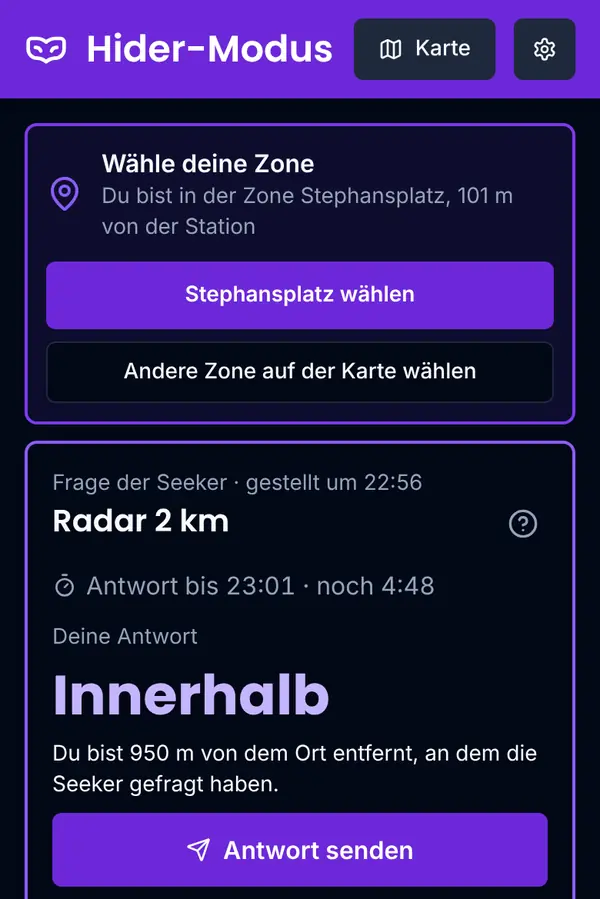
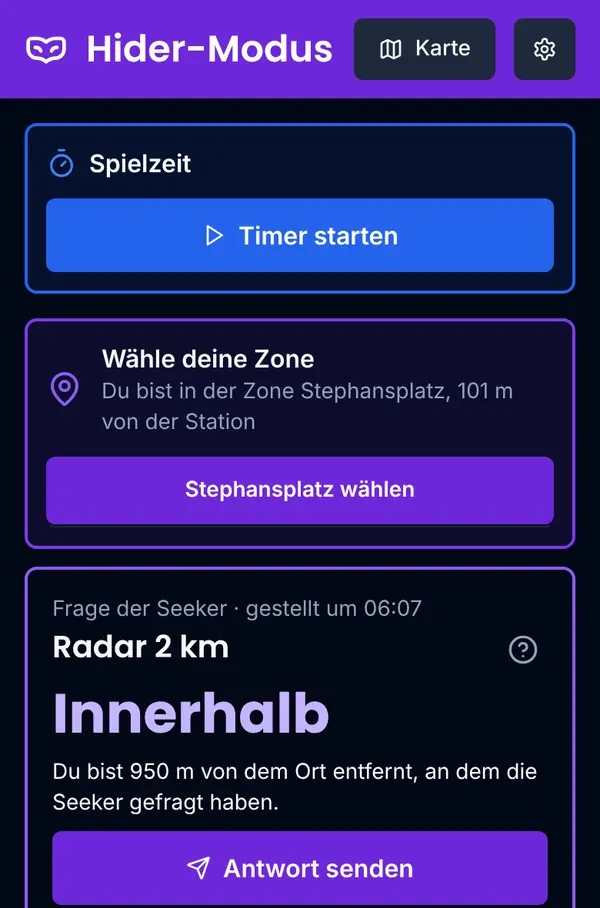
Rules: catch up with stage 19
House rules and cards now match the app after stage 19: 19 measuring
cards without the high-speed train line, named places only, mountains
are named peaks of at least 400 m, the answer clock runs from "Send to
hider", the thermometer's "Tell the hider" and at-least distance, and the
game timer (start, pause for late answers and Move, found). The quick
guide's hider and map pictures show the timer.

Claude-Session: https://claude.ai/code/session_01RvuLi91qh883AfDW9CDbYq

diff --git a/src/maps/rules.ts b/src/maps/rules.ts
@@ -54,8 +54,8 @@ type CardRule = {
 };
 
 const placeCounts = (de: string, en: string): Text => ({
-    de: `Alles, was in OpenStreetMap als ${de} eingetragen ist, so wie es die App zeigt. Gemessen wird zum Punkt des Orts, nicht zu seinem Rand.`,
-    en: `Anything mapped as ${en} in OpenStreetMap, as the app shows it. Distances go to the place's point, not to its edge.`,
+    de: `Alles mit Namen, was in OpenStreetMap als ${de} eingetragen ist, so wie es die App zeigt. Gemessen wird zum Punkt des Orts, nicht zu seinem Rand.`,
+    en: `Anything with a name mapped as ${en} in OpenStreetMap, as the app shows it. Distances go to the place's point, not to its edge.`,
 });
 
 /** Keyed by the card's id in deck.ts; cards in both decks share one entry. */
@@ -162,8 +162,8 @@ const CARD_RULES: Record<string, CardRule> = {
             en: "Compared to me, are you closer to or further from a mountain?",
         },
         counts: {
-            de: "Jeder Gipfel, der in OpenStreetMap als Gipfel eingetragen ist. Gemessen wird zum Gipfelpunkt.",
-            en: "Any summit mapped as a peak in OpenStreetMap. Distances go to the summit's point.",
+            de: "Das Rulebook nimmt, was die Karten-App als Berg zeigt. Bei uns zählen Gipfel mit Namen ab 400 m Seehöhe, niedrigere Hügel nicht. Gemessen wird zum Gipfelpunkt.",
+            en: "The rule book takes whatever the map app shows as a mountain. For us, named peaks of at least 400 m count, lower hills don't. Distances go to the summit's point.",
         },
     },
     landmass: {
@@ -190,8 +190,8 @@ const CARD_RULES: Record<string, CardRule> = {
             en: "Compared to me, are you closer to or further from a park?",
         },
         counts: {
-            de: "Jeder Park, der in OpenStreetMap als Park eingetragen ist, so wie es die App zeigt. Gemessen wird zum Punkt des Parks, nicht zu seinem Rand. Das wirkt manchmal seltsam: Wer am Rand eines großen Parks steht, ist vielleicht näher am Punkt eines kleinen Parks daneben. Das Rulebook bleibt trotzdem bei dieser Regel, weil sie eindeutig ist.",
-            en: "Any park mapped as a park in OpenStreetMap, as the app shows it. Distances go to the park's point, not to its edge. That can feel odd: at the edge of a big park, the point of a small park nearby may be closer. The rule book sticks with this rule anyway, because it's clear-cut.",
+            de: "Jeder Park mit Namen, der in OpenStreetMap als Park eingetragen ist, so wie es die App zeigt; Grünflächen ohne Namen zählen nicht. Gemessen wird zum Punkt des Parks, nicht zu seinem Rand. Das wirkt manchmal seltsam: Wer am Rand eines großen Parks steht, ist vielleicht näher am Punkt eines kleinen Parks daneben. Das Rulebook bleibt trotzdem bei dieser Regel, weil sie eindeutig ist.",
+            en: "Any park with a name mapped as a park in OpenStreetMap, as the app shows it; green spaces without a name don't count. Distances go to the park's point, not to its edge. That can feel odd: at the edge of a big park, the point of a small park nearby may be closer. The rule book sticks with this rule anyway, because it's clear-cut.",
         },
     },
     "amusement-park": {
@@ -295,18 +295,8 @@ const CARD_RULES: Record<string, CardRule> = {
             en: "Compared to me, are you closer to or further from a foreign consulate?",
         },
         counts: {
-            de: "Alles, was in OpenStreetMap als Konsulat eingetragen ist; Botschaften zählen nicht. Laut Rulebook zählen auch Honorarkonsulate nicht. Die App unterscheidet sie nicht, im Zweifel klären das die Seeker beim Fragen.",
-            en: "Anything mapped as a consulate in OpenStreetMap; embassies don't count. By the rule book, honorary consulates don't count either. The app doesn't tell them apart, so when in doubt the seekers clarify when asking.",
-        },
-    },
-    "high-speed": {
-        measuring: {
-            de: "Im Vergleich zu mir: Bist du näher an einer Schnellfahrstrecke oder weiter weg?",
-            en: "Compared to me, are you closer to or further from a high-speed train line?",
-        },
-        counts: {
-            de: "Es gilt die Definition vor Ort, sonst die der EU: neu gebaute Strecken für mindestens 250 km/h und ausgebaute für etwa 200 km/h. Die App nimmt die Strecken, die in OpenStreetMap als Schnellfahrstrecke markiert sind.",
-            en: "Use the local definition, otherwise the EU's: newly built lines for at least 250 km/h and upgraded lines for about 200 km/h. The app takes the lines marked as high-speed in OpenStreetMap.",
+            de: "Alles mit Namen, was in OpenStreetMap als Konsulat eingetragen ist; Botschaften zählen nicht. Laut Rulebook zählen auch Honorarkonsulate nicht. Die App unterscheidet sie nicht, im Zweifel klären das die Seeker beim Fragen.",
+            en: "Anything with a name mapped as a consulate in OpenStreetMap; embassies don't count. By the rule book, honorary consulates don't count either. The app doesn't tell them apart, so when in doubt the seekers clarify when asking.",
         },
     },
     "rail-station": {
@@ -486,16 +476,16 @@ export const RULE_SECTIONS: RuleSection[] = [
                         en: "**Hiding zones:** U-Bahn stations only, 500 m radius (rule book: 400 m). The app shows all 99 zones.",
                     },
                     {
-                        de: "**Versteckphase:** 30 Minuten.",
-                        en: "**Hiding period:** 30 minutes.",
+                        de: "**Versteckphase:** 30 Minuten. Danach zählt die Versteckzeit, bis der Hider gefunden ist; die App misst beides mit {startTimer}.",
+                        en: "**Hiding period:** 30 minutes. After that, the hiding time runs until the hider is found; the app times both with {startTimer}.",
                     },
                     {
-                        de: "**Antwortzeit:** 5 Minuten, bei Fotos 10 Minuten, ab dem Moment, in dem die Seeker fragen.",
-                        en: "**Time to answer:** 5 minutes, 10 for photos, from the moment the seekers ask.",
+                        de: "**Antwortzeit:** 5 Minuten, bei Fotos 10 Minuten, ab dem Moment, in dem die Seeker die Frage mit {sendToHider} schicken.",
+                        en: "**Time to answer:** 5 minutes, 10 for photos, from the moment the seekers send the question with {sendToHider}.",
                     },
                     {
-                        de: "**Fragen:** alle 20 Matching- und 20 Measuring-Fragen, alle Radar-Fragen, die Thermometer 1 km und 5 km und die 6 Foto-Fragen für Small. Keine Tentakel.",
-                        en: "**Questions:** all 20 matching and 20 measuring questions, every radar, the 1 km and 5 km thermometers and the 6 photo questions for Small. No tentacles.",
+                        de: "**Fragen:** alle 20 Matching- und 19 Measuring-Fragen (ohne Schnellfahrstrecke), alle Radar-Fragen, die Thermometer 1 km und 5 km und die 6 Foto-Fragen für Small. Keine Tentakel.",
+                        en: "**Questions:** all 20 matching and 19 measuring questions (no high-speed train line), every radar, the 1 km and 5 km thermometers and the 6 photo questions for Small. No tentacles.",
                     },
                     {
                         de: "**Alles metrisch:** Radar 500 m, 1, 2, 5, 10, 15, 40, 80 und 160 km, dazu eine frei gewählte Distanz.",
@@ -504,6 +494,10 @@ export const RULE_SECTIONS: RuleSection[] = [
                     {
                         de: "**Eine Karte für alle:** Das Rulebook verlangt, dass alle dieselbe Karten-App verwenden. Bei uns ist das diese App mit den Daten von OpenStreetMap. Was als Museum, Park oder Gewässer zählt, zeigt der Ebenen-Knopf auf der Karte.",
                         en: "**One map for everyone:** the rule book wants all players to use the same map app. For us, that's this app with OpenStreetMap data. What counts as a museum, park or body of water, the layers button on the map shows.",
+                    },
+                    {
+                        de: "**Nur Orte mit Namen:** Parks, Museen, Zoos und alle anderen Orte zählen nur, wenn sie einen Namen haben; eine namenlose Grünfläche ist kein Park. Ein Berg ist ein Gipfel mit Namen ab 400 m Seehöhe.",
+                        en: "**Named places only:** parks, museums, zoos and every other place count only if they have a name; an unnamed patch of green is no park. A mountain is a named peak of at least 400 m.",
                     },
                     {
                         de: "**Stationsnamen:** der deutsche Name, wie er auf dem Schild steht.",
@@ -541,6 +535,10 @@ export const RULE_SECTIONS: RuleSection[] = [
                     {
                         de: "**Bundesland:** Im Spielgebiet ist alles Wien, die Matching-Frage ist also immer Ja. Die Measuring-Frage misst zur Stadtgrenze.",
                         en: "**Bundesland:** everything in the game area is Vienna, so the matching question is always yes. The measuring question measures to the city limits.",
+                    },
+                    {
+                        de: "**Schnellfahrstrecke:** Wien hat nur die Neue Westbahn am Stadtrand, deshalb ist die Karte bei uns nicht im Spiel.",
+                        en: "**High-speed train line:** Vienna only has the Neue Westbahn at the edge of the city, so this card isn't in our game.",
                     },
                     {
                         de: "**Gemeindebezirk oder Katastralgemeinde?** Wien hat 23 Gemeindebezirke und 89 Katastralgemeinden. In den inneren Bezirken ist der Bezirk meist genau eine Katastralgemeinde, weiter draußen besteht er aus mehreren; dort grenzt die Katastralgemeinde stärker ein.",
@@ -677,8 +675,8 @@ export const RULE_SECTIONS: RuleSection[] = [
                 en: "Until the endgame, the hider can move freely within the zone: shop, eat, go for a walk. They mustn't leave it until the round is over.",
             },
             {
-                de: "**In der App:** Der Hider wählt seine Zone auf dem Hider-Bildschirm oder tippt sie auf der Karte an und wählt {chooseZone}. Verlässt er sie, warnt ihn die App.",
-                en: "**In the app:** the hider chooses their zone on the hider screen, or taps it on the map and chooses {chooseZone}. If they leave it, the app warns them.",
+                de: "**In der App:** Zu Beginn der Versteckphase tippt ihr {startTimer}. Die Uhr steht oben auf dem Hider-Bildschirm und oben links auf der Karte; sie zählt die 30 Minuten herunter und danach die Versteckzeit hoch. Der Hider wählt seine Zone auf dem Hider-Bildschirm oder tippt sie auf der Karte an und wählt {chooseZone}. Verlässt er sie, warnt ihn die App.",
+                en: "**In the app:** when the hiding period begins, tap {startTimer}. The clock sits at the top of the hider screen and at the top left of the map; it counts down the 30 minutes, then counts up the hiding time. The hider chooses their zone on the hider screen, or taps it on the map and chooses {chooseZone}. If they leave it, the app warns them.",
             },
             {
                 de: "**Tipps für den Hider:** Die Wahl der Zone ist die wichtigste Entscheidung der Runde. Abgelegene Zonen sind schwerer zu erraten, aber haben die Seeker sie einmal eingegrenzt, gibt es dort wenige Stationen. In dichten Gegenden wird es kompliziert, dafür kommen die Seeker schnell überall hin. Manche Foto-Fragen verlangen, schnell an eine bestimmte Stelle der Zone zu kommen; solche Fotos kannst du vorher machen. Und such dir rechtzeitig einen guten Platz für das Endgame.",
@@ -697,8 +695,8 @@ export const RULE_SECTIONS: RuleSection[] = [
             {
                 list: [
                     {
-                        de: "Der Hider antwortet ehrlich, innerhalb von **5 Minuten**, bei Fotos **10 Minuten** (Large 20).",
-                        en: "The hider answers truthfully, within **5 minutes**, **10 minutes** for photos (Large 20).",
+                        de: "Der Hider antwortet ehrlich, innerhalb von **5 Minuten**, bei Fotos **10 Minuten** (Large 20). Die Zeit läuft, sobald die Frage gestellt ist, bei uns ab {sendToHider}.",
+                        en: "The hider answers truthfully, within **5 minutes**, **10 minutes** for photos (Large 20). The time runs from when the question is asked, for us from {sendToHider}.",
                     },
                     {
                         de: "Zum Antworten darf er das Internet benutzen, aber kein Google Street View oder Ähnliches.",
@@ -709,8 +707,8 @@ export const RULE_SECTIONS: RuleSection[] = [
                         en: "After each answer, the hider draws cards from the hider deck; how many is given for each category.",
                     },
                     {
-                        de: "Antwortet er zu spät, bleibt seine Versteckzeit stehen, bis er antwortet, und er bekommt für diese Frage keine Karten. Er muss sich aber ernsthaft bemühen, rechtzeitig zu antworten.",
-                        en: "If they answer late, their hiding time stops until they answer, and they get no cards for that question. They must make a real effort to answer in time, though.",
+                        de: "Antwortet er zu spät, bleibt seine Versteckzeit stehen, bis er antwortet, und er bekommt für diese Frage keine Karten. Er muss sich aber ernsthaft bemühen, rechtzeitig zu antworten. In der App tippt er dafür {pause} auf der Spielzeit-Uhr und danach {resume}.",
+                        en: "If they answer late, their hiding time stops until they answer, and they get no cards for that question. They must make a real effort to answer in time, though. In the app, they tap {pause} on the game timer, then {resume}.",
                     },
                     {
                         de: "Jede Frage gibt es nur einmal. Ein zweites Mal geht nur zum doppelten Preis: Der Hider zieht dann zweimal, also etwa zweimal 3 Karten und behält je 1, nicht 6 und behält 2. Beim dritten Mal dreimal, und so weiter.",
@@ -727,12 +725,12 @@ export const RULE_SECTIONS: RuleSection[] = [
                 ],
             },
             {
-                de: "**Was als Ort zählt:** Das Rulebook rechnet mit den Symbolen in Google Maps. Bei uns zählt, was in OpenStreetMap eingetragen ist, so wie es die App zeigt; so schauen Hider und Seeker in dieselbe Karte. Gemessen wird zum Punkt des Orts, nicht zu seinem Rand.",
-                en: "**What counts as a place:** the rule book goes by the icons in Google Maps. For us, what's in OpenStreetMap counts, as the app shows it, so hider and seekers look at the same map. Distances go to the place's point, not to its edge.",
+                de: "**Was als Ort zählt:** Das Rulebook rechnet mit den Symbolen in Google Maps. Bei uns zählt, was in OpenStreetMap eingetragen ist und einen Namen hat, so wie es die App zeigt; so schauen Hider und Seeker in dieselbe Karte. Gemessen wird zum Punkt des Orts, nicht zu seinem Rand.",
+                en: "**What counts as a place:** the rule book goes by the icons in Google Maps. For us, what's in OpenStreetMap and has a name counts, as the app shows it, so hider and seekers look at the same map. Distances go to the place's point, not to its edge.",
             },
             {
-                de: "**In der App:** {ask} → Karte wählen. Die Frage nimmt deinen Standort und zeigt das Nächste, etwa das nächste Museum. Mit {sendToHider} geht sie als Link in den Chat. Kommt die Antwort, tippst du sie auf der Frage ein; erst dann ändert sich die Karte.",
-                en: "**In the app:** {ask} → pick a card. The question takes your location and shows what's nearest, like the nearest museum. {sendToHider} sends it to the chat as a link. When the answer comes, enter it on the question; only then does the map change.",
+                de: "**In der App:** {ask} → Karte wählen. Die Frage nimmt deinen Standort und zeigt das Nächste, etwa das nächste Museum. Mit {sendToHider} geht sie als Link in den Chat, ab dann läuft die Uhr des Hiders. Kommt die Antwort, tippst du sie auf der Frage ein; erst dann ändert sich die Karte.",
+                en: "**In the app:** {ask} → pick a card. The question takes your location and shows what's nearest, like the nearest museum. {sendToHider} sends it to the chat as a link, and the hider's clock starts. When the answer comes, enter it on the question; only then does the map change.",
             },
         ],
     },
@@ -797,16 +795,16 @@ export const RULE_SECTIONS: RuleSection[] = [
                 en: "“After traveling ___, am I hotter or colder?” Hotter means closer to the hider than at the start. The hider answers **hotter** or **colder**, within 5 minutes. Then they **draw 2 cards and keep 1**.",
             },
             {
-                de: "Am Start sagen die Seeker dem Hider, dass sie ein Thermometer beginnen, und schicken ihren Standort. Nach der Strecke (Luftlinie, bei uns **1 km** oder **5 km**) schicken sie den neuen Standort. Verglichen wird mit dem Ort, an dem der Hider beim Antworten ist.",
-                en: "At the start, the seekers tell the hider they're starting a thermometer and send their location. After the distance (as the crow flies, **1 km** or **5 km** for us), they send their new location. Both are compared with where the hider is when answering.",
+                de: "Am Start sagen die Seeker dem Hider, dass sie ein Thermometer beginnen, und schicken ihren Standort. Dann fahren sie mindestens die Strecke der Karte, gemessen in Luftlinie (bei uns **1 km** oder **5 km**); weiter ist erlaubt, kürzer nicht. Am Ende schicken sie den neuen Standort. Verglichen wird mit dem Ort, an dem der Hider beim Antworten ist.",
+                en: "At the start, the seekers tell the hider they're starting a thermometer and send their location. Then they travel at least the card's distance, measured in a straight line (**1 km** or **5 km** for us); further is fine, shorter isn't. At the end, they send their new location. Both are compared with where the hider is when answering.",
             },
             {
                 de: "**Strecken je nach Spielgröße:** Small 800 m und 5 km, Medium zusätzlich 16 km, Large zusätzlich 80 km. Bei uns 1 km und 5 km.",
                 en: "**Distances by game size:** Small 800 m and 5 km, Medium adds 16 km, Large adds 80 km. 1 km and 5 km for us.",
             },
             {
-                de: "**In der App:** {ask} → Thermometer → Start. Die App misst mit und meldet sich, wenn die Strecke geschafft ist.",
-                en: "**In the app:** {ask} → thermometer → start. The app keeps track and tells you when you've covered the distance.",
+                de: "**In der App:** {ask} → Thermometer → Start. {tellHider} schickt dem Hider Startzeit und Standort als Kartenlink. Die App misst mit und meldet sich, wenn die Strecke geschafft ist; die Frage zeigt die gefahrene Luftlinie und warnt rot, wenn sie zu kurz ist.",
+                en: "**In the app:** {ask} → thermometer → start. {tellHider} sends the hider your start time and location as a map link. The app keeps track and tells you when you've covered the distance; the question shows the straight-line distance traveled and warns in red if it's too short.",
             },
             {
                 de: "Gut, um zu sehen, ob ihr in die richtige Richtung fahrt.",
@@ -1009,8 +1007,8 @@ export const RULE_SECTIONS: RuleSection[] = [
                         },
                     ),
                     powerup("move", "Move", "Umziehen", 1, {
-                        de: "Der Hider bekommt Zeit, wie viel steht je nach Spielgröße auf der Karte, um eine neue Zone an einer anderen Station zu beziehen, nur mit erlaubten Öffis. So lange stehen die Seeker still und fragen nicht, und seine Versteckzeit läuft nicht weiter. Beim Spielen legt er sofort alle Karten auf der Hand ab und verrät den Seekern seine bisherige Station. Nicht im Endgame.",
-                        en: "The hider gets time, as much as the card gives for the game size, to set up a new zone at another station, using only allowed transit. Meanwhile the seekers stay put and don't ask, and the hiding time doesn't run. When playing it, the hider discards their whole hand right away and tells the seekers their old station. Not during the endgame.",
+                        de: "Der Hider bekommt Zeit, wie viel steht je nach Spielgröße auf der Karte, um eine neue Zone an einer anderen Station zu beziehen, nur mit erlaubten Öffis. So lange stehen die Seeker still und fragen nicht, und seine Versteckzeit läuft nicht weiter (in der App: {pause} auf der Spielzeit-Uhr). Beim Spielen legt er sofort alle Karten auf der Hand ab und verrät den Seekern seine bisherige Station. Nicht im Endgame.",
+                        en: "The hider gets time, as much as the card gives for the game size, to set up a new zone at another station, using only allowed transit. Meanwhile the seekers stay put and don't ask, and the hiding time doesn't run (in the app: {pause} on the game timer). When playing it, the hider discards their whole hand right away and tells the seekers their old station. Not during the endgame.",
                     }),
                 ],
             },
@@ -1488,8 +1486,8 @@ export const RULE_SECTIONS: RuleSection[] = [
                 en: "The next hider gets 10 minutes to get ready: they take over the hider deck and turn off their live location. The new round starts where the previous hider was found.",
             },
             {
-                de: "**In der App:** Zahnrad → {newGame}, jeder mit seiner neuen Rolle.",
-                en: "**In the app:** gear → {newGame}, everyone with their new role.",
+                de: "**In der App:** {found} auf der Spielzeit-Uhr stoppt die Versteckzeit; die Zeitbonus-Karten auf der Hand rechnet ihr von Hand dazu. Danach Zahnrad → {newGame}, jeder mit seiner neuen Rolle.",
+                en: "**In the app:** {found} on the game timer stops the hiding time; add the time bonus cards in hand yourselves. Then gear → {newGame}, everyone with their new role.",
             },
         ],
     },
@@ -1665,8 +1663,8 @@ export const GUIDE_SLIDES: { id: string; title: Text; text: Text }[] = [
         id: "hider",
         title: { de: "Als Hider", en: "As the hider" },
         text: {
-            de: "Wähle zuerst auf dem Hider-Bildschirm deine Zone, oder tippe sie auf der Karte an und wähle {chooseZone}. Fragen kommen als Link: Die App rechnet die Antwort an deinem Standort aus, und du schickst sie mit {sendAnswer} in den Chat. Die Uhr zeigt, wie viel Zeit dir bleibt.",
-            en: "First choose your zone on the hider screen, or tap it on the map and choose {chooseZone}. Questions arrive as links: the app works out the answer at your location, and {sendAnswer} sends it to the chat. The clock shows how much time you have left.",
+            de: "Tippe zu Beginn auf {startTimer} und wähle deine Zone auf dem Hider-Bildschirm, oder tippe sie auf der Karte an und wähle {chooseZone}. Fragen kommen als Link: Die App rechnet die Antwort an deinem Standort aus, und du schickst sie mit {sendAnswer} in den Chat.",
+            en: "At the start, tap {startTimer} and choose your zone on the hider screen, or tap it on the map and choose {chooseZone}. Questions arrive as links: the app works out the answer at your location, and {sendAnswer} sends it to the chat.",
         },
     },
 ];

diff --git a/src/components/HelpDialog.tsx b/src/components/HelpDialog.tsx
@@ -36,6 +36,11 @@ const buttonNames = () => ({
     sendToHider: t("send.button"),
     sendAnswer: t("hider.send"),
     chooseZone: t("zones.choose"),
+    startTimer: t("gameClock.start"),
+    pause: t("gameClock.pause"),
+    resume: t("gameClock.resume"),
+    found: t("gameClock.found"),
+    tellHider: t("thermometer.tellHider"),
 });
 
 /** A text of the help with **bold** words and the app's buttons in it. */

diff --git a/tests/rules.test.ts b/tests/rules.test.ts
@@ -64,6 +64,11 @@ const BUTTONS = [
     "sendToHider",
     "sendAnswer",
     "chooseZone",
+    "startTimer",
+    "pause",
+    "resume",
+    "found",
+    "tellHider",
 ];
 
 const PUBLIC = new URL("../public/", import.meta.url).pathname;

diff --git a/CLAUDE.md b/CLAUDE.md
@@ -77,7 +77,7 @@ pnpm vitest run       # Tests einmalig
 - `src/lib/context.ts`: persistente Einstellungen (nanostores, localStorage)
 - `src/lib/i18n.ts`: Sprache des Handys (Atom `language`, Standard `en`, gespeichert unter `appLanguage`; der alte Schlüssel `language` wird nicht mehr gelesen, weil dort auf jedem Handy `de` stand, auch ohne eigene Wahl), `t()` für Texte aus `src/lib/messages.ts`, `tr()` für `Text`-Objekte, `tx()` für Texte mit Teilen wie einer fetten Zahl, `formatNumber` („1,2 km“ auf Deutsch, `formatKilometers` nutzt es). Komponenten rufen `useLanguage()` auf, damit sie nach dem Umschalten sofort neu zeichnen. Gespeicherte oder zwischengespeicherte Daten enthalten keine fertigen Texte (z. B. `Nearest` in `nearest.ts`: nur Name, Art und Entfernung; der Satz entsteht erst in `nearestText`), sonst bleibt nach dem Umschalten die alte Sprache stehen. Der Link „Send to hider“ enthält die Frage, nicht ihren Text, also sieht der Hider sie in seiner Sprache; ebenso merkt sich der Hider-Bildschirm frühere Antworten als Wert (`hiderInbox`, `workedOut`), nicht als Satz. Die Namen der Fragetypen in `schema.ts` (`.describe(...)`) sind Schlüssel aus `messages.ts` (`type.*`), angezeigt mit `labelOf()`; Ortsarten in Sätzen über `prettifyLocation` (`places.*`).
 - `tests/i18n.test.ts`: prüft, dass jeder Text beide Sprachen und dieselben Platzhalter hat, dass es jeden Schlüssel gibt, den der Code nutzt, und dass in den übersetzten Dateien (`TRANSLATED_FILES`, seit Etappe 15 B alle, die Spieler sehen) kein englischer Satz mehr fest drinsteht. Ausgenommen sind `console.*`-Ausgaben und geworfene Fehler (nur für Entwickler). Regeln und Kurzanleitung (`rules.ts`) prüft `tests/rules.test.ts`. Neue Dateien mit Texten dort eintragen.
-- Hilfe (seit Etappe 8, `src/components/HelpDialog.tsx`, Inhalte in `src/maps/rules.ts`): Fenster über der ganzen App mit „Kurzanleitung“ (5 Karten `GUIDE_SLIDES` mit Bildern aus der echten App, `public/guide/<id>-<en|de>.webp`, Bild in der App-Sprache) und „Regeln“ (`RULE_SECTIONS`: Hausregeln, Wien, Ablauf, jede Matching- und Measuring-Karte mit Frage und was zählt, Radar, Thermometer, Fotos, Tentakel, Karten des Hiders, Endgame, Begriffe; in eigenen Worten nach https://jetlag.denull.ru/en/rules). Wien-Hinweise nur bei echten Besonderheiten (keine Antwort, Bundesland, Stadtgrenze, Donauinsel; Daniels Wunsch vom 2026-10-23, keine Wien-Beispiele bei jeder Karte). Wo das Rulebook nach Spielgröße unterscheidet, steht Small zuerst und Medium und Large in Klammern; Überblick im Abschnitt „Small, Medium, Large“ (`sizes`). Die Hilfe hat einen eigenen Sprachschalter (`helpLanguage`, Standard Deutsch), unabhängig von der App-Sprache; Knopfnamen stehen in den Texten als `{ask}` usw. und werden mit dem Namen in der App-Sprache gefüllt. Öffnet sich einmal beim ersten Start (`guideSeen`, nicht bei Frage-Links), sonst über Einstellungen → „Help“ (Atom `helpOpen`). Das „?“ an jeder Fragekarte, Foto-Karte und beim Hider (`RuleButton`; `ruleIdFor`, `photoRuleId`, `hiderEntryRuleId`) springt zur passenden Regel. Deutscher Regeltext zum Gegenlesen für Daniel: https://claude.ai/artifact/DDDAxVdTj8gr3VGZ8dXo7R (erste Fassung aus Etappe 8; der aktuelle Text steht in `rules.ts`). Bilder neu machen: Playwright wie unter „Test im Browser“, Ausschnitt, dann `convert … -resize 600x -quality 72 x.webp`. Geprüft in `tests/rules.test.ts`
+- Hilfe (seit Etappe 8, `src/components/HelpDialog.tsx`, Inhalte in `src/maps/rules.ts`): Fenster über der ganzen App mit „Kurzanleitung“ (5 Karten `GUIDE_SLIDES` mit Bildern aus der echten App, `public/guide/<id>-<en|de>.webp`, Bild in der App-Sprache) und „Regeln“ (`RULE_SECTIONS`: Hausregeln, Wien, Ablauf, jede Matching- und Measuring-Karte mit Frage und was zählt, Radar, Thermometer, Fotos, Tentakel, Karten des Hiders, Endgame, Begriffe; in eigenen Worten nach https://jetlag.denull.ru/en/rules). Wien-Hinweise nur bei echten Besonderheiten (keine Antwort, Bundesland, Stadtgrenze, Donauinsel; Daniels Wunsch vom 2026-10-23, keine Wien-Beispiele bei jeder Karte). Wo das Rulebook nach Spielgröße unterscheidet, steht Small zuerst und Medium und Large in Klammern; Überblick im Abschnitt „Small, Medium, Large“ (`sizes`). Seit Etappe 19 nennen Hausregeln und Karten die Spielzeit-Uhr (`{startTimer}`, `{pause}`, `{resume}`, `{found}`), „Tell the hider“ beim Thermometer (`{tellHider}`), 19 Measuring-Karten ohne Schnellfahrstrecke, nur Orte mit Namen und Berge ab 400 m; die Bilder `hider-*` und `map-*` zeigen die Uhr. Neue Knöpfe in Texten: in `buttonNames` (`HelpDialog.tsx`) und `BUTTONS` (`tests/rules.test.ts`) eintragen. Die Hilfe hat einen eigenen Sprachschalter (`helpLanguage`, Standard Deutsch), unabhängig von der App-Sprache; Knopfnamen stehen in den Texten als `{ask}` usw. und werden mit dem Namen in der App-Sprache gefüllt. Öffnet sich einmal beim ersten Start (`guideSeen`, nicht bei Frage-Links), sonst über Einstellungen → „Help“ (Atom `helpOpen`). Das „?“ an jeder Fragekarte, Foto-Karte und beim Hider (`RuleButton`; `ruleIdFor`, `photoRuleId`, `hiderEntryRuleId`) springt zur passenden Regel. Deutscher Regeltext zum Gegenlesen für Daniel: https://claude.ai/artifact/DDDAxVdTj8gr3VGZ8dXo7R (erste Fassung aus Etappe 8; der aktuelle Text steht in `rules.ts`). Bilder neu machen: Playwright wie unter „Test im Browser“, Ausschnitt, dann `convert … -resize 600x -quality 72 x.webp`. Geprüft in `tests/rules.test.ts`
 - Icon und Name (seit Etappe 8): eigenes Icon (Lupe über einem stilisierten U-Bahn-Netz, kein offizielles Jet-Lag-Logo), Quelle `public/icon.svg`, daraus `icon-16/32/180/192/512/1080.png` und `favicon.ico`. Name „Hide & Seek Vienna“, unter dem Icon auf dem Home-Bildschirm „Hide & Seek“ (Manifest in `astro.config.mjs`, `Layout.astro`). Startbildschirm mit Icon (`#splash` in `index.astro`), verschwindet, sobald die Karte da ist (`hideSplash` in `Map.tsx`), spätestens nach 15 s. iPhones zeigen ein neues Icon erst, wenn man die App vom Home-Bildschirm entfernt und neu hinzufügt.
 
 ## Wien-Besonderheiten (geprüft am 2026-10-22)
